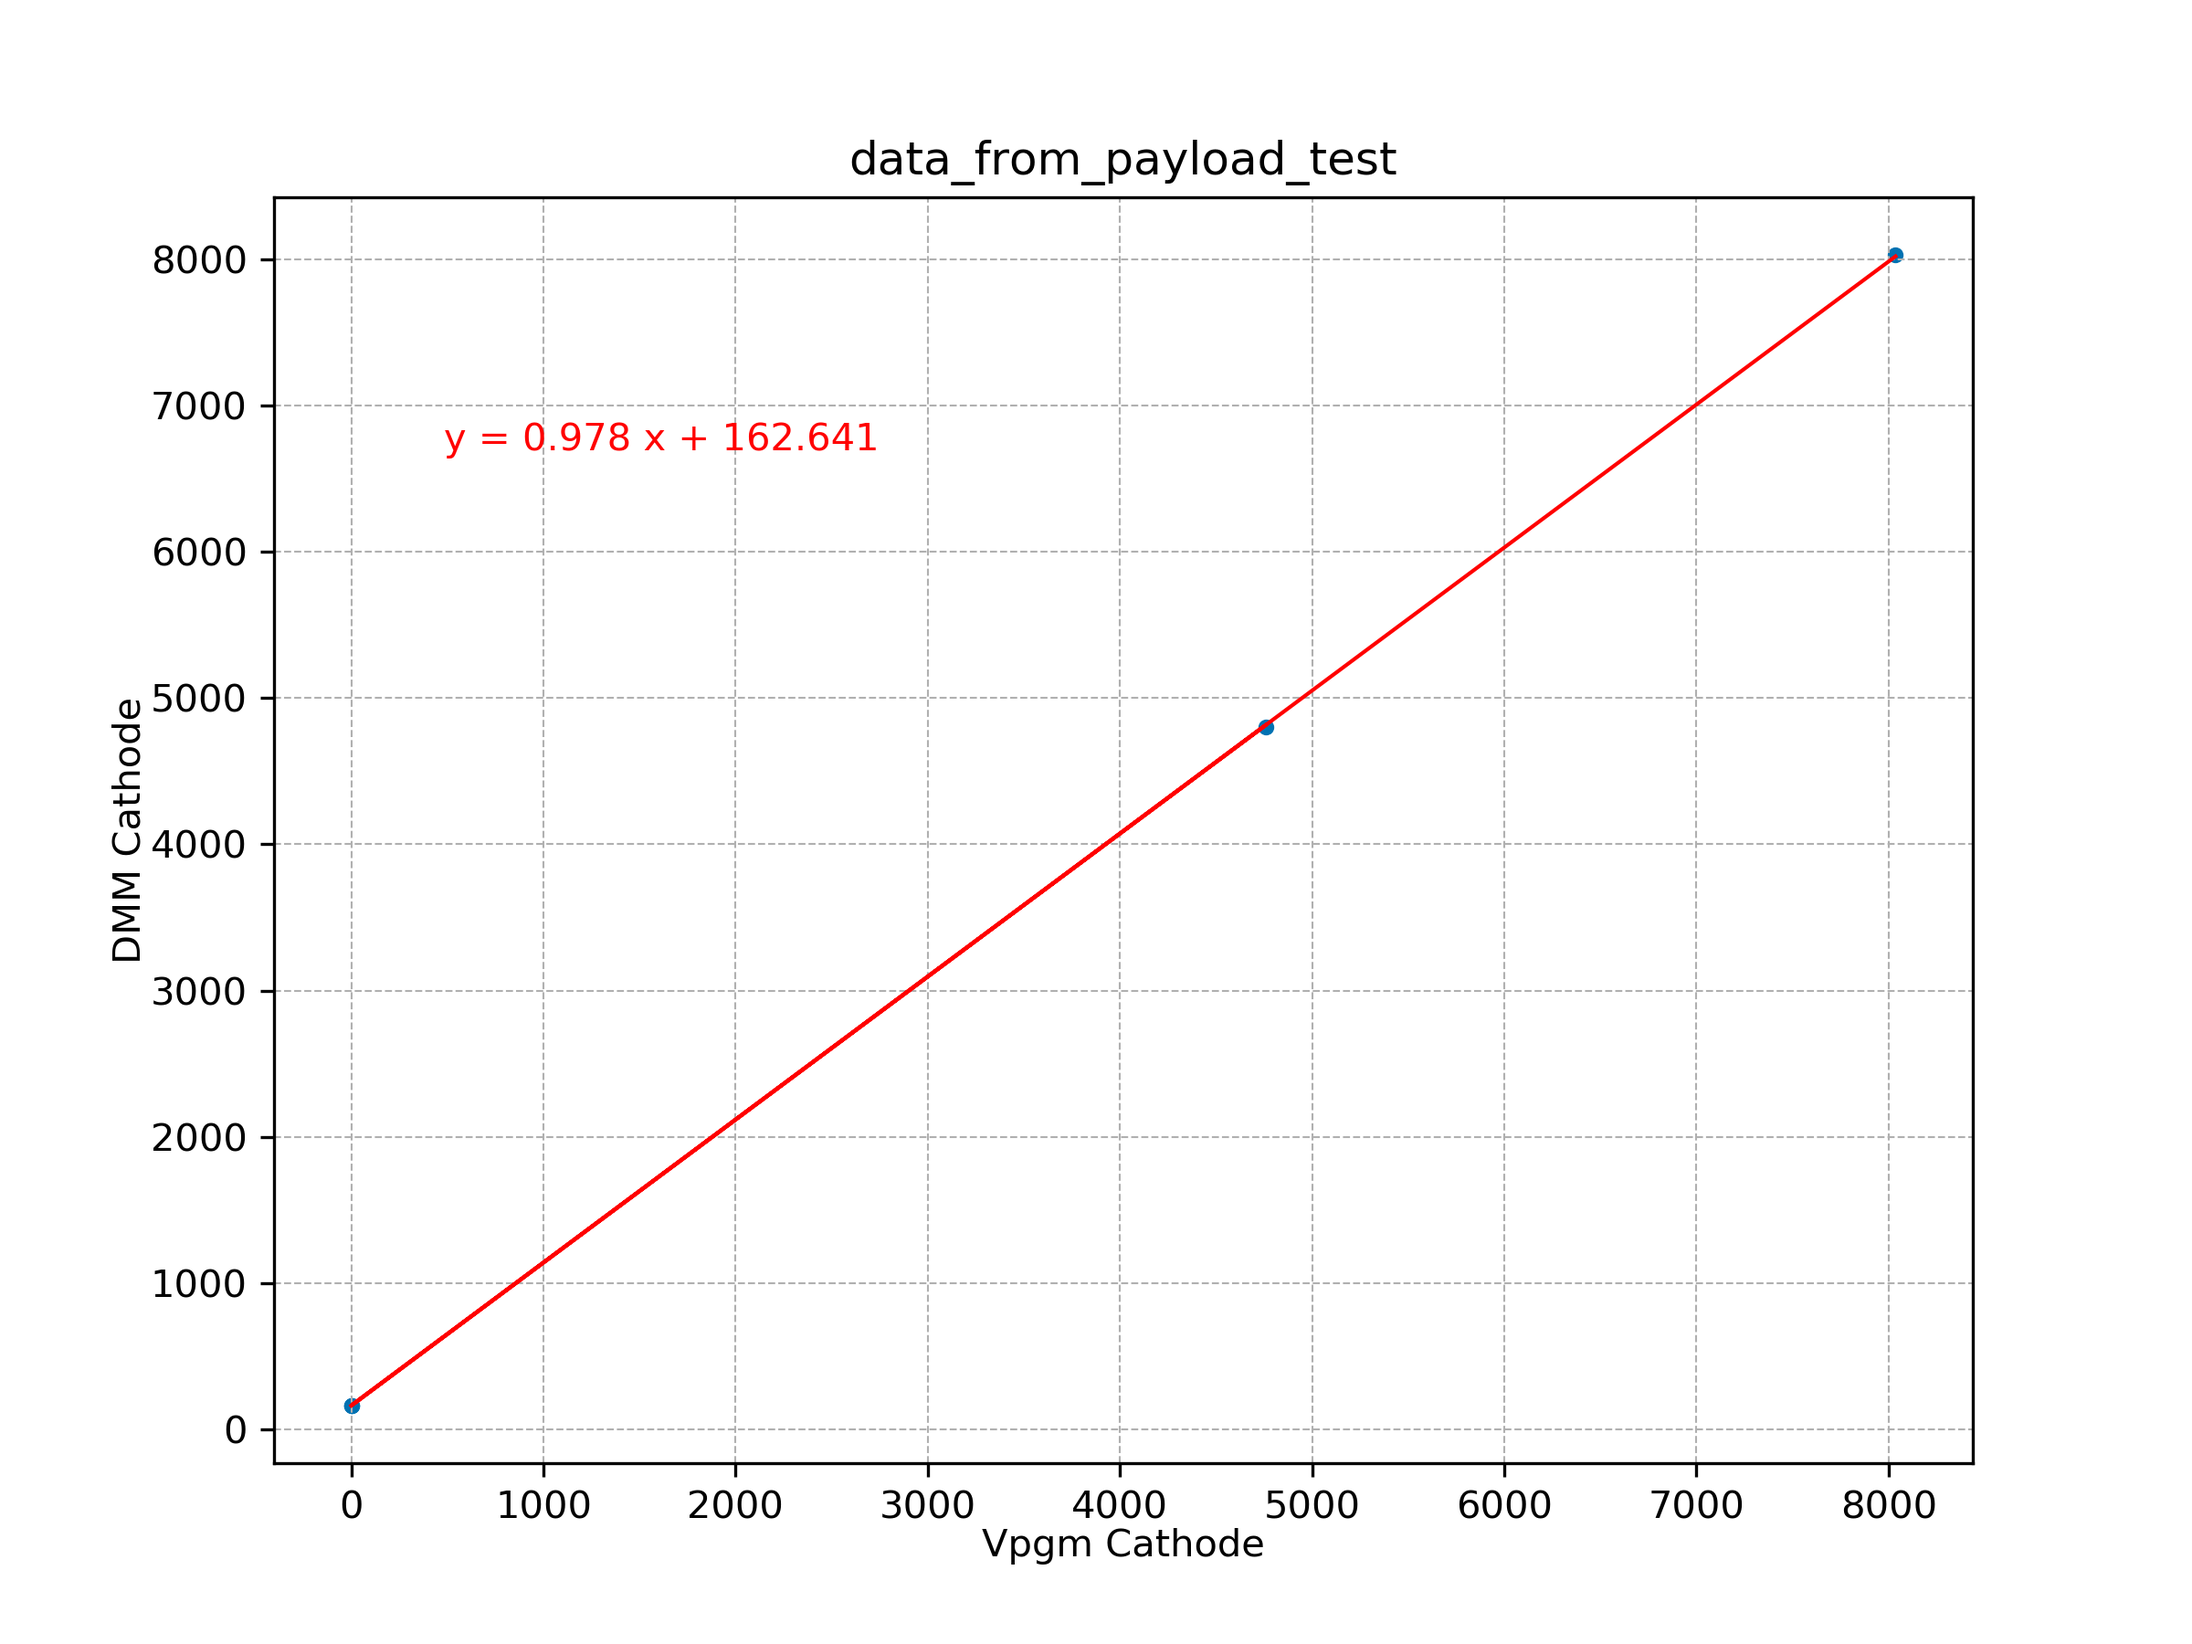
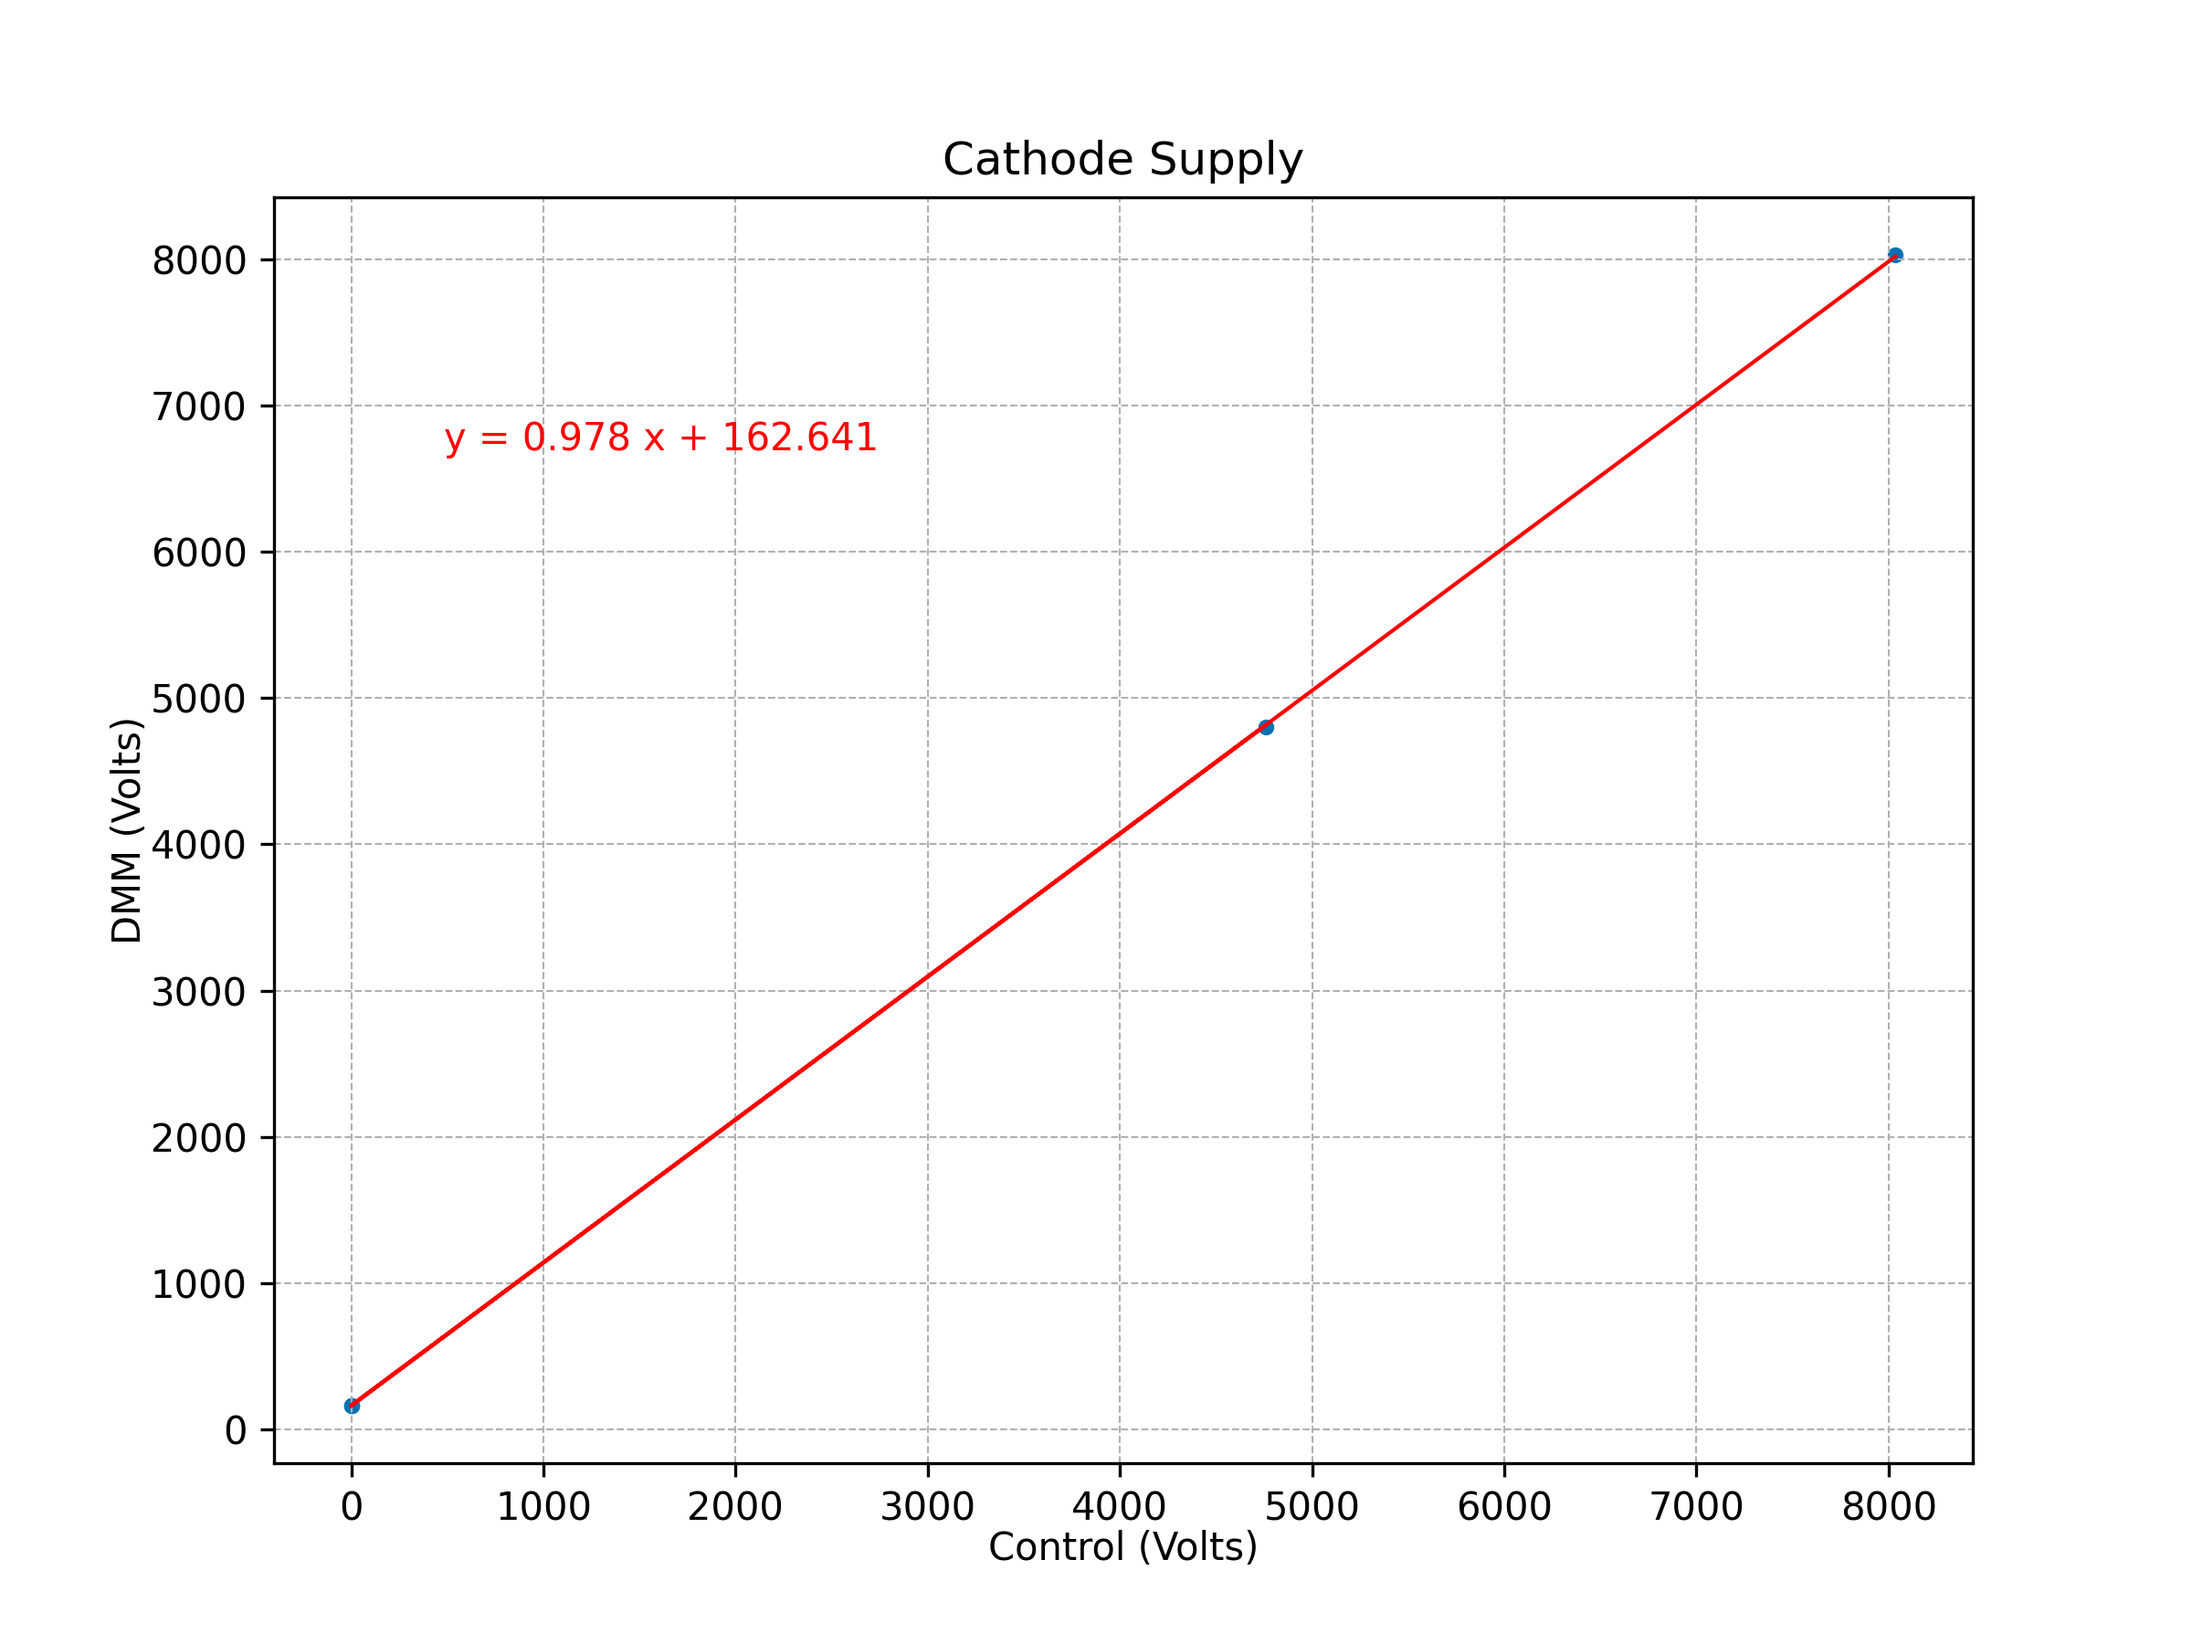
update

diff --git a/Testbench/test.py b/Testbench/test.py
@@ -104,6 +104,119 @@ print('\n')
 #              'C': {'DAC_Volts': [], 'DAC_Current_Limit': [], 'ADC_Voltage': [], 'ADC_Current': []}}
 
 #Reads data from second file and appends to dictionary        
+
+
+# data_dict = {'P': {'DAC': [], 'ADC_Voltage': [], 'ADC_Current': []},
+#                   'C': {'DAC': [], 'ADC_Voltage': [], 'ADC_Current': []},
+#                   'HV': {'DAC': [], 'Voltage': []}}
+
+# #Reads data from first file and appends to dictionary
+# with open(filename) as f:
+#     for line in f:
+#         HV = [float(value) for value in line.split(',')]
+#         data_dict['HV']['DAC'].append(HV[0])
+#         data_dict['HV']['Voltage'].append(HV[1])
+
+# #Reads data from second file and appends to dictionary        
+# with open(filename2) as f2:
+#     for line in f2:
+#         P = [float(value) for value in line.split()[1].split(',')]
+#         C = [float(value) for value in line.split()[3].split(',')]
+#         data_dict['P']['DAC'].append(P[0]) 
+#         data_dict['P']['ADC_Voltage'].append(P[1]) 
+#         data_dict['P']['ADC_Current'].append(P[2]) 
+#         data_dict['C']['DAC'].append(C[0]) 
+#         data_dict['C']['ADC_Voltage'].append(C[1]) 
+#         data_dict['C']['ADC_Current'].append(C[2]) 
+
+
+
+
+def creator(filename):
+    '''
+    '''
+    #creating empty dictionary where I will store my data
+    data_0702 = {'P': {'DAC': [], 'ADC_Voltage': [], 'ADC_Current': []},
+                  'C': {'DAC': [], 'ADC_Voltage': [], 'ADC_Current': []}}
+
+    data_0722 = {'P': {'DAC_Volts': [], 'DAC_Current_Limit': [], 'ADC_Voltage': [], 'ADC_Current': []},
+                 'C': {'DAC_Volts': [], 'DAC_Current_Limit': [], 'ADC_Voltage': [], 'ADC_Current': []}}
+    
+    
+    #Reads data from second file and appends to dictionary        
+    with open(filename) as f:
+        for line in f:
+            P = [float(value) for value in line.split()[1].split(',')]
+            # print(P)
+            # exit()
+            C = [float(value) for value in line.split()[3].split(',')]
+            if len(P) == 4:
+                data_0722['P']['DAC_Volts'].append(P[0])
+                data_0722['P']['DAC_Current_Limit'].append(P[1]) 
+                data_0722['P']['ADC_Voltage'].append(P[2]) 
+                data_0722['P']['ADC_Current'].append(P[3]) 
+                data_0722['C']['DAC_Volts'].append(C[0])
+                data_0722['C']['DAC_Current_Limit'].append(C[1]) 
+                data_0722['C']['ADC_Voltage'].append(C[2]) 
+                data_0722['C']['ADC_Current'].append(C[3]) 
+            elif len(P) == 3:
+                data_0702['P']['DAC'].append(P[0]) 
+                data_0702['P']['ADC_Voltage'].append(P[1]) 
+                data_0702['P']['ADC_Current'].append(P[2]) 
+                data_0702['C']['DAC'].append(C[0]) 
+                data_0702['C']['ADC_Voltage'].append(C[1]) 
+                data_0702['C']['ADC_Current'].append(C[2]) 
+            else:
+                print("This will not work the way you think it will")
+    return data_0702, data_0722
+            #print(data_dict)
+
+
+x = creator(filename)
+print(x)
+
+exit()
+
+
+
+def creator(filename):
+    '''
+    '''
+    #creating empty dictionary where I will store my data
+    data_dict = {'P': {'DAC_Volts': [], 'DAC_Current_Limit': [], 'ADC_Voltage': [], 'ADC_Current': []},
+                 'C': {'DAC_Volts': [], 'DAC_Current_Limit': [], 'ADC_Voltage': [], 'ADC_Current': []}}
+    
+    #Reads data from second file and appends to dictionary        
+    with open(filename) as f:
+        for line in f:
+            P = [float(value) for value in line.split()[1].split(',')]
+            # print(P)
+            # exit()
+            C = [float(value) for value in line.split()[3].split(',')]
+            data_dict['P']['DAC_Volts'].append(P[0])
+            data_dict['P']['DAC_Current_Limit'].append(P[1]) 
+            data_dict['P']['ADC_Voltage'].append(P[2]) 
+            data_dict['P']['ADC_Current'].append(P[3]) 
+            data_dict['C']['DAC_Volts'].append(C[0])
+            data_dict['C']['DAC_Current_Limit'].append(C[1]) 
+            data_dict['C']['ADC_Voltage'].append(C[2]) 
+            data_dict['C']['ADC_Current'].append(C[3]) 
+            
+    return data_dict
+            #print(data_dict)
+
+
+x = creator(filename)
+print(x)
+
+exit()
+
+
+
+
+
+
+
 def dictionary_maker(filename):
     print(filename)
     dict_name = {'P': {'DAC_Volts': [], 'DAC_Current_Limit': [], 'ADC_Voltage': [], 'ADC_Current': []},

diff --git a/HighVoltage_Test_Payload/High_Voltage_Test_Plot_Payload.py b/HighVoltage_Test_Payload/High_Voltage_Test_Plot_Payload.py
@@ -133,7 +133,7 @@ print(df)
 
         
 #Define a plotting function to make scatter plot and fit a line to it
-def plotter(x, y, name, xlabel='x_val', ylabel='y_val', supply='HV', x_name='input', y_name='data'):
+def plotter(x, y, name, title=name, xlabel='x_val', ylabel='y_val', supply='HV', x_name='input', y_name='data'):
     '''
     Simple plot maker. Will make a scatter plot and 
     fit the data with numpy.polyfit()
@@ -152,7 +152,7 @@ def plotter(x, y, name, xlabel='x_val', ylabel='y_val', supply='HV', x_name='inp
     plt.figure(1, figsize = (8,6))
     plt.scatter(x, y, s=10.0)
     plt.plot(x,y_line, color='red', linewidth=1.0)
-    plt.title("{0}".format(name))
+    plt.title("{0}".format(title))
     plt.xlabel(xlabel, labelpad = 0.5, fontsize = 10)
     plt.ylabel(ylabel, labelpad = 0.5, fontsize = 10)
     plt.grid(visible=True, which='both', axis='both', linestyle='--', linewidth=0.5)
@@ -165,7 +165,7 @@ def plotter(x, y, name, xlabel='x_val', ylabel='y_val', supply='HV', x_name='inp
     plt.figure(2, figsize=(8,6))
     plt.scatter(x, res, s=10.0)
     plt.plot(x,np.zeros(len(x)), color='red', linewidth=1.0, linestyle='-')
-    plt.title("Residuals_{0}".format(name))
+    plt.title("Residuals_{0}".format(title))
     plt.xlabel(xlabel, labelpad = 0.5, fontsize = 10)
     plt.ylabel(ylabel, labelpad = 0.5, fontsize = 10)
     plt.grid(visible=True, which='both', axis='both',linestyle='--', linewidth=0.5)
@@ -174,7 +174,7 @@ def plotter(x, y, name, xlabel='x_val', ylabel='y_val', supply='HV', x_name='inp
     
     plt.figure(3, figsize=(8,6))
     plt.hist(res)#, histtype='step')
-    plt.title("Hist_Residuals_{0}".format(name))
+    plt.title("Hist_Residuals_{0}".format(title))
     plt.xlabel(xlabel, labelpad = 0.5, fontsize = 10)
     plt.ylabel('Counts', labelpad = 0.5, fontsize = 10)
     plt.grid(visible=True, which='both', axis='both',linestyle='--', linewidth=0.5)
@@ -416,7 +416,7 @@ def plotter(x, y, name, xlabel='x_val', ylabel='y_val', supply='HV', x_name='inp
 x=df['VpgmCat'][0:5]
 y=df['DMMCat'][0:5]
 
-plotter(x, y, name, xlabel='Vpgm Cathode', ylabel='DMM Cathode',
+plotter(x, y, name, title='Cathode Supply', xlabel='Control (Volts)', ylabel='DMM (Volts)',
         x_name='VPGM_Cathode', y_name='DMM_Cathode', supply='Cathode')
 
 exit()
